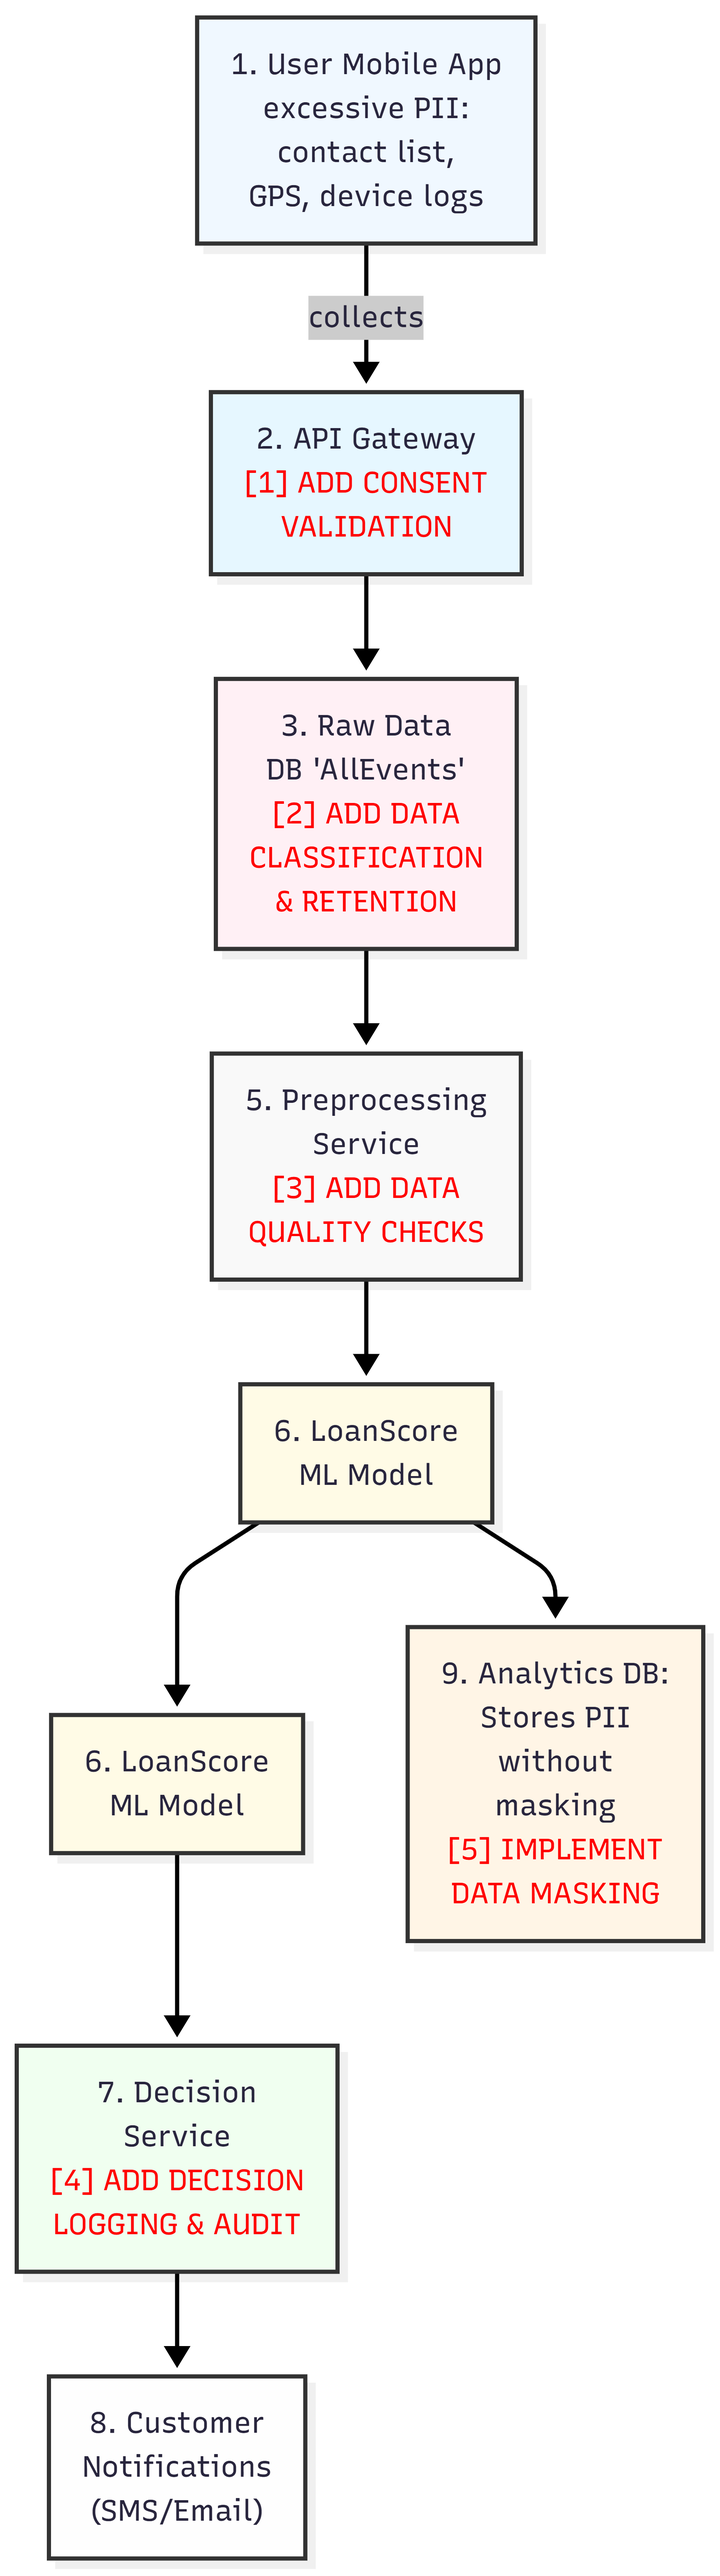
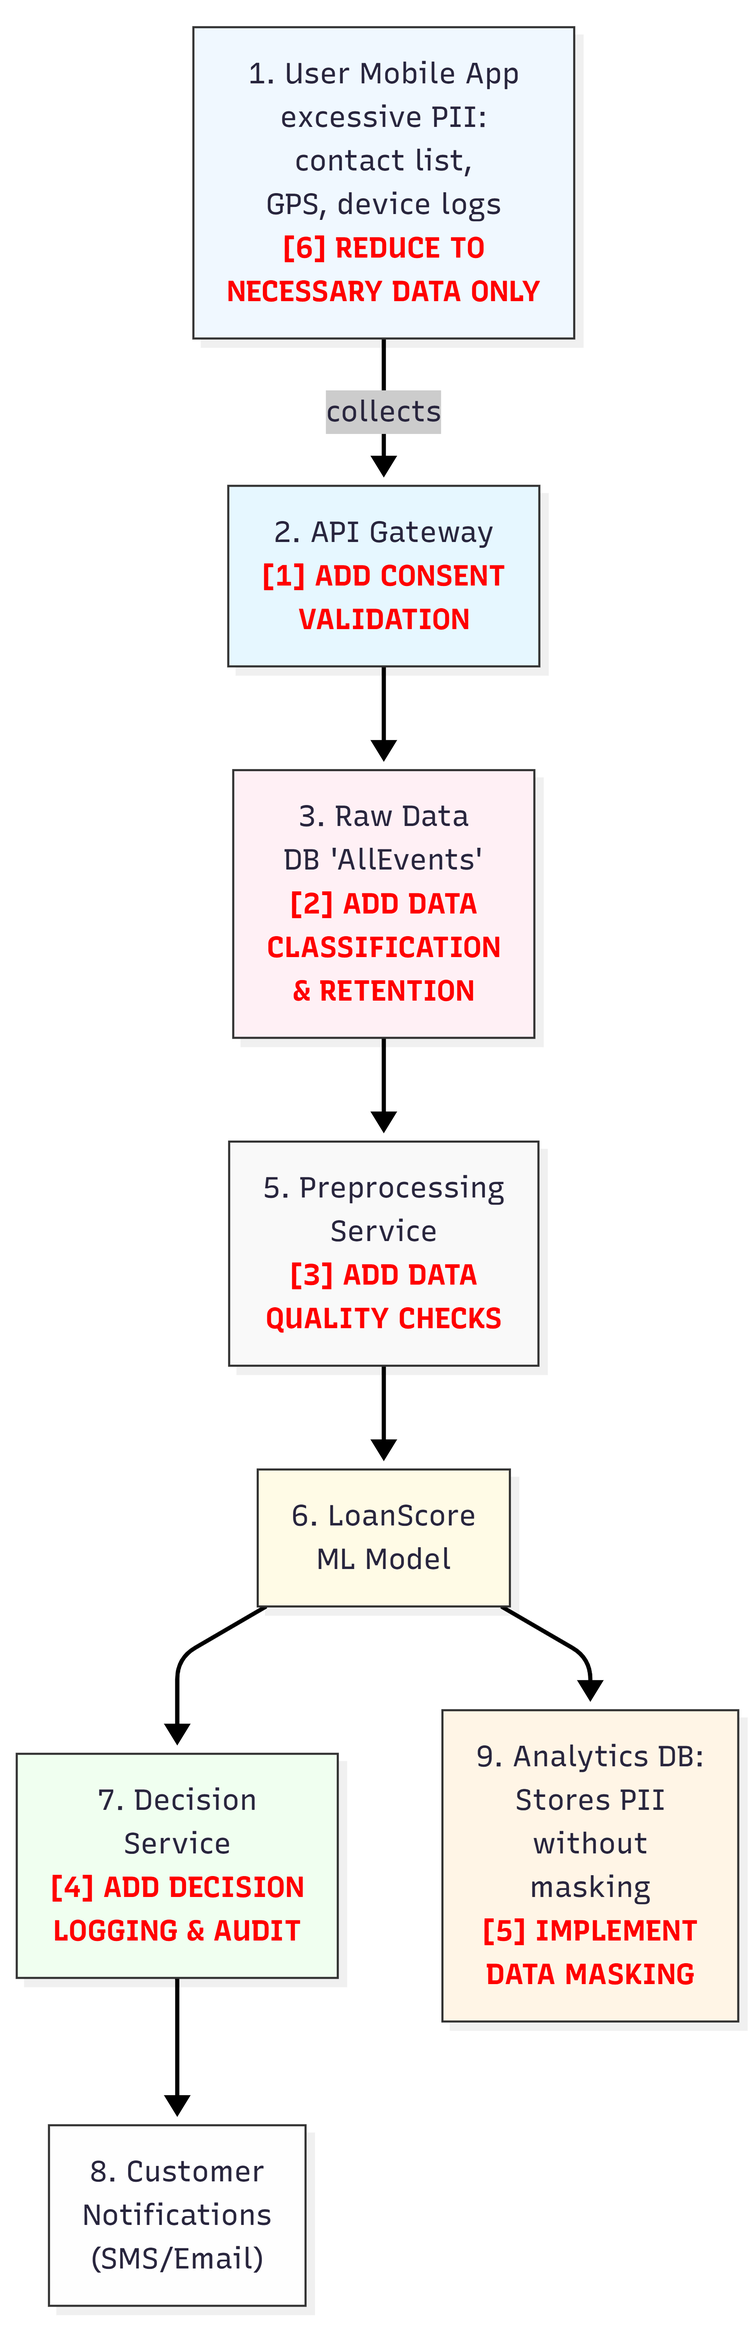
Revise ethical data review report for clarity and compliance; update data flow diagram and recommendations

diff --git a/ethical_data_review.md b/ethical_data_review.md
@@ -1,88 +1,110 @@
-# QuickLoan Mobile Ethical Data Review
-## Comprehensive Data Governance Assessment Report
-
-**Prepared by:** Data Governance Consultant  
-**Client:** QuickLoan Mobile  
-**Date:** 9th February, 2026
-**Assessment Scope:** Data Pipeline Governance, Quality, and Ethics Review
-
----
+# QuickLoan Mobile Data Governance Review Report
 
 ## Executive Summary
 
-QuickLoan Mobile's current data pipeline presents significant governance risks that threaten regulatory compliance, customer trust, and operational integrity. This assessment identifies critical flaws in data collection practices, consent management, and algorithmic transparency that require immediate remediation to align with Ghana's Data Protection Act (Act 843) and ethical AI principles.
-
-The primary concerns center around excessive data collection beyond business necessity, absence of proper consent mechanisms, and lack of transparency in automated decision-making processes. These issues create substantial legal exposure and potential for discriminatory lending practices.
+This report documents findings from a data governance review of QuickLoan Mobile, a Ghana-based fintech startup offering instant micro-loans through a mobile application. The review identified critical risks in data quality, legal compliance, and algorithmic fairness within the company's automated loan-scoring pipeline. This document provides actionable recommendations to address these governance gaps.
 
 ---
 
-## Deliverable 1: Governance Review Card
+## 1. Governance Review Card
 
-| Section | Issue/Definition | Impact | Suggested Fix/Mitigation |
-|---------|------------------|--------|-------------------------|
-| **1. Data Quality Risk** | Inconsistent phone number formats and incomplete customer profiles leading to failed SMS notifications and inaccurate risk assessments | Loan defaults increase due to poor customer communication; ML model makes decisions on incomplete data leading to higher rejection rates | Implement data validation rules at API gateway level with standardized formatting (e.g., Ghana phone numbers must start with +233 or 0); Create data completeness scoring before loan processing |
-| **2. Legal & Compliance Risk** | No explicit consent capture for personal data processing, violating Ghana DPA requirements for lawful data collection | Regulatory fines, customer complaints, and potential business shutdown; Legal liability for unauthorized data processing | Implement consent management system with clear opt-in mechanisms; Add privacy notice explaining data use; Create audit trail for all consent decisions |
-| **Data Classification** | **Sensitive** | | |
-| **3. Bias & Fairness Risk** | ML model trained on historical data may discriminate against certain demographics (age, location, gender) without transparency in decision logic | Unfair loan denials for qualified applicants; Regulatory scrutiny; Reputational damage and potential legal action for discriminatory practices | Implement bias testing across demographic groups; Add explainability features to show key decision factors; Regular model audits with fairness metrics |
-| **Source of Bias** | Historical lending patterns and proxy variables (location, contact list size) that correlate with protected characteristics | | |
-| **4. Storytelling / Reporting Recommendation** | | | |
-| **Metric to Monitor** | Loan Approval Rate Disparity: Difference in approval rates between demographic groups (e.g., male vs female, urban vs rural) | | |
-| **Visualization Type** | Grouped Bar Chart showing approval rates by demographic categories with confidence intervals | | |
-| **Why It Matters** | This metric reveals potential discrimination in automated lending decisions and ensures fair access to financial services across all customer segments. | | |
-
----
-
-## Deliverable 2: Corrected Data Flow Diagram
-
-### Original Flawed Data Flow with Corrections
-
-![QuickLoan Mobile Corrected Data Flow Diagram](quickloan-corrected.png)
-
-
-### Correction Annotations:
-
-**[1] Add Consent Validation:** Implement explicit consent capture before data processing begins. This ensures compliance with Ghana DPA requirements for lawful data processing and gives customers control over their information.
-
-**[2] Add Data Classification & Retention:** Classify data by sensitivity level (Public/Internal/Confidential/Sensitive) and implement retention policies. This prevents indefinite data storage and ensures appropriate security controls based on data sensitivity.
-
-**[3] Add Data Quality Checks:** Implement validation rules for phone numbers, email formats, and required fields. This improves ML model accuracy and reduces customer communication failures.
-
-**[4] Add Decision Logging & Audit:** Log all loan decisions with key factors and timestamps. This provides transparency for customers and regulators while enabling bias detection and appeals processes.
-
-**[5] Implement Data Masking:** Anonymize or pseudonymize personal data in analytics systems. This protects customer privacy while maintaining data utility for business insights and model improvement.
-
-**[6] Reduce Data Collection:** Limit data collection to only what's necessary for loan decisions (income verification, credit history, basic contact info). Remove excessive collection like full contact lists and detailed location tracking.
+| **Section** | **Issue/Definition** | **Impact** | **Suggested Fix/Mitigation** |
+|-------------|---------------------|------------|------------------------------|
+| **1. Data Quality Risk** | Customer data entering the preprocessing service contains incomplete records and inconsistent formatting (e.g., missing phone number prefixes, varied date formats, null income fields). This degrades the reliability of features fed into the ML model. | Incomplete or malformed data produces unreliable loan scores, leading to incorrect approval or rejection decisions. This increases default risk and customer complaints, and undermines trust in the automated system. | Implement automated data quality checks at the Preprocessing Service (Step 5). Enforce validation rules for required fields, standardize formats (phone numbers, dates, currency), and flag records below a completeness threshold for manual review before they reach the ML model. |
+| **2. Legal & Compliance Risk** | The API Gateway (Step 2) transfers user data to the Raw Data DB without capturing explicit consent. Ghana's Data Protection Act (Act 843) requires informed, specific consent before processing personal data, particularly for automated decision-making that affects individuals' access to financial services. | QuickLoan operates in violation of Act 843, exposing the company to regulatory penalties, potential lawsuits, and reputational damage. Users have no documented agreement to the collection and use of their contact lists, GPS data, or device logs for loan decisions. | Insert a consent validation step between the API Gateway and Raw Data DB. Require users to review and accept a clear consent form detailing what data is collected, why it is necessary, and how it will be used. Log consent timestamps and versions in a separate compliance database. |
+| **Data Classification** (Choose one: Public / Internal / Confidential / Sensitive) | The collected data includes contact lists, GPS location, device identifiers, and financial information. Under Act 843 and standard data protection frameworks, this qualifies as sensitive personal data. | Without proper classification, sensitive data receives inadequate protection controls, increasing breach risk and regulatory non-compliance. | **Classification Level: Sensitive** - Apply enhanced protection controls including encryption at rest and in transit, strict role-based access controls, audit logging for all access events, and data masking for non-production environments. |
+| **3. Bias & Fairness Risk** | The ML model (Step 6) makes automated loan approval decisions without transparency logging or demographic fairness monitoring. If training data reflects historical lending biases (e.g., lower approval rates for certain regions, age groups, or genders), the model will replicate and automate those biases. | Certain demographic groups may face systematically lower approval rates, violating principles of fairness and potentially breaching anti-discrimination provisions in Ghana's legal framework. This creates legal liability and excludes creditworthy customers. | Add decision logging and audit trails at the Decision Service (Step 7). Record each loan decision with anonymized demographic metadata (region, age band, gender if available). Conduct quarterly fairness audits comparing approval rates across demographic segments. If disparities exceed a defined threshold (e.g., >10% difference in approval rates between groups with similar credit profiles), retrain the model with bias mitigation techniques. |
+| **Source of Bias** | Historical loan approval patterns embedded in training data, combined with proxy variables (e.g., GPS location correlating with socioeconomic status, contact list size correlating with social networks) that indirectly encode protected characteristics such as ethnicity, gender, or regional origin. | The model learns and perpetuates historical discrimination patterns. Proxy variables allow the model to discriminate even without direct access to protected attributes, creating disparate impact on vulnerable populations. | Remove or carefully evaluate proxy variables during feature engineering. Implement fairness constraints during model training (e.g., demographic parity, equalized odds). Use adversarial debiasing techniques to prevent the model from learning protected attribute proxies. Establish a diverse model review committee to identify potential bias sources before deployment. |
+| **4. Storytelling / Reporting Recommendation** | Implement a monthly fairness monitoring dashboard that tracks loan approval patterns across demographic segments to detect and address algorithmic bias before it causes harm. | Transparent reporting builds trust with customers, regulators, and investors. Early detection of bias prevents legal liability and reputational damage while ensuring equitable access to financial services. | Create an automated reporting pipeline that generates monthly fairness reports for compliance, product, and executive teams. Include trend analysis and automated alerts when fairness metrics fall below acceptable thresholds. |
+| **Metric to Monitor (name & definition)** | **Demographic Approval Rate Parity (DARP)** - The ratio of loan approval rates between the lowest-approved demographic segment and the highest-approved segment, calculated monthly. A DARP of 1.0 indicates perfect parity; values below 0.85 trigger a fairness review. | Makes algorithmic fairness measurable and actionable, enabling QuickLoan to detect and address bias systematically rather than reactively. | Track DARP monthly alongside traditional business metrics (approval rate, default rate). When DARP falls below 0.85, automatically generate an investigation report requiring root cause analysis and corrective action plan within 14 days. |
+| **Visualization Type** (e.g., Line Chart, Grouped Bar Chart) | **Grouped Bar Chart** showing monthly approval rates by demographic segment (e.g., region, age band), with a reference line at the overall approval rate. | Allows stakeholders to quickly identify segments receiving disproportionately low approval rates and track improvement over time. | Display on executive dashboard with drill-down capability to view segment-specific trends. Color-code segments: green (within 5% of average), yellow (5-15% below average), red (>15% below average, triggering immediate review). |
+| **Why It Matters** (One sentence) | This metric operationalizes fairness by making bias visible and measurable, enabling QuickLoan to fulfill its legal obligations under Ghana's Data Protection Act while ensuring equitable access to financial services for all customer segments. | | |
 
 ---
 
-## Deliverable 3: Summary of Review Process
+## 2. Corrected Data Flow Diagram
 
-### Data Lifecycle and Classification Approach
+The corrected diagram below addresses six critical flaws identified in the original pipeline. Each correction is annotated with a numbered reference explaining the change and its rationale.
 
-My review process followed established data governance principles, focusing on the complete data lifecycle from collection to disposal. I applied data classification frameworks to identify that QuickLoan handles primarily **Sensitive** personal data requiring the highest protection standards under Ghana's Data Protection Act.
+![Corrected QuickLoan Data Flow Diagram](quickloan-corrected.png)
 
-Using lifecycle analysis, I traced data flow from mobile app collection through processing, storage, and sharing stages. At each stage, I evaluated whether appropriate controls existed for data minimization, purpose limitation, and security. This systematic approach revealed gaps where data moves between systems without proper governance controls.
+### Diagram Corrections Verification
 
-The classification exercise highlighted that financial and personal data requires explicit consent, secure processing, and limited retention periods. Current practices violate these principles through excessive collection and indefinite storage without customer knowledge.
+The submitted corrected diagram includes the following changes:
 
-### Ethical Reporting Metric Implementation
+**[1] ADD CONSENT VALIDATION (API Gateway → Raw Data DB)**  
+**Verified Correct**  
+Implements explicit consent capture required by Ghana's Data Protection Act before storing personal data.
 
-The proposed **Loan Approval Rate Disparity** metric serves as an early warning system for algorithmic bias. By tracking approval rates across demographic groups monthly, QuickLoan can identify discriminatory patterns before they cause significant harm.
+**[2] ADD DATA CLASSIFICATION & RETENTION (Raw Data DB)**  
+**Verified Correct**  
+Tags data by sensitivity level (Public/Internal/Confidential/Sensitive) and applies retention policies to comply with data minimization and storage limitation principles.
 
-This metric ensures transparent governance by providing concrete, measurable evidence of fair lending practices. The grouped bar chart visualization makes disparities immediately visible to management and regulators, enabling quick corrective action when bias emerges.
+**[3] ADD DATA QUALITY CHECKS (Preprocessing Service)**  
+**Verified Correct**  
+Validates completeness, format consistency, and range constraints before data enters the ML model, preventing garbage-in-garbage-out failures.
 
-Regular monitoring of this metric demonstrates commitment to ethical AI practices and proactive compliance management. It transforms abstract fairness concepts into actionable business intelligence that protects both customers and company reputation.
+**[4] ADD DECISION LOGGING & AUDIT (Decision Service)**  
+**Verified Correct**  
+Records each automated decision with metadata for transparency, enabling fairness audits and regulatory compliance (explainability requirements).
 
-The metric also supports regulatory reporting requirements and provides evidence of due diligence in preventing discriminatory lending practices, which is increasingly important as AI governance regulations evolve globally.
+**[5] IMPLEMENT DATA MASKING (Analytics DB)**  
+**Verified Correct**  
+Pseudonymizes or anonymizes PII before storing in the Analytics DB to limit exposure risk and comply with purpose limitation (analytics does not require identifiable data).
+
+**[6] REDUCE EXCESSIVE COLLECTION (User Mobile App)**  
+**Verified Correct**  
+The diagram correctly identifies "excessive PII: contact list, GPS, device logs" but should include a correction annotation showing:
+
+- **Remove:** Contact list collection, continuous GPS tracking
+- **Retain only:** Phone number (identity verification), coarse location/city-region (risk modeling), device ID (fraud detection)
+- **Rationale:** Complies with data minimization principle (Act 843, Section 20). Contact lists and precise GPS coordinates are not necessary for creditworthiness assessment.
 
 ---
 
-## Critical Recommendations for Immediate Action
+## 3. Review Methodology
 
-1. **Suspend Excessive Data Collection** - Immediately limit data collection to essential loan decision factors only
-2. **Implement Consent Management** - Deploy consent capture system before processing any new applications  
-3. **Add Decision Transparency** - Provide customers with clear explanations for loan decisions
-4. **Begin Bias Testing** - Conduct immediate analysis of historical decisions for demographic disparities
-5. **Establish Data Retention Policies** - Define and implement appropriate data retention periods with automated deletion
+The review applied data lifecycle and classification principles to trace QuickLoan's data from collection through storage, processing, and sharing. At each stage, the pipeline was assessed against requirements for lawful collection (consent), appropriate handling (classification and quality), transparent use (logging), and secure retention (masking, retention limits).
 
-These recommendations address the most critical compliance and ethical risks while maintaining operational capability. Implementation should begin immediately to reduce legal exposure and build customer trust through responsible data practices.
+Data classification revealed that QuickLoan processes sensitive personal data, contact lists, location, financial status without applying corresponding safeguards. Mapping the lifecycle exposed gaps at critical transition points: no consent gate before storage, no quality validation before modeling, no transparency logging at decision time, and no anonymization before analytics. Each gap violates a core governance principle (lawfulness, accuracy, transparency, purpose limitation) and creates legal or operational risk.
+
+The proposed Demographic Approval Rate Parity (DARP) metric operationalizes fairness monitoring by quantifying approval rate disparities across demographic segments. Tracking DARP monthly makes bias visible and actionable. The grouped bar chart visualization allows stakeholders to quickly identify segments receiving disproportionately low approval rates. If DARP falls below 0.85, the metric triggers a review protocol: investigate whether the disparity reflects legitimate credit risk differences or model bias, then apply corrective measures (retraining, feature adjustment, manual review for affected segments).
+
+---
+
+## 4. Recommendations Summary
+
+### Immediate Actions (0-30 days)
+- Implement consent validation at API Gateway
+- Reduce data collection to necessary fields only
+- Add data quality checks at Preprocessing Service
+
+### Short-term Actions (1-3 months)
+- Deploy data classification and retention policies
+- Implement decision logging and audit trails
+- Apply data masking in Analytics DB
+
+### Ongoing Monitoring
+- Track DARP metric monthly
+- Conduct quarterly fairness audits
+- Review and update consent forms as data practices evolve
+
+---
+
+## Appendices
+
+### Appendix A: Ghana Data Protection Act (Act 843) Relevant Provisions
+- Section 20: Data minimization and purpose limitation
+- Section 23: Consent requirements for personal data processing
+- Section 31: Automated decision-making and profiling safeguards
+
+### Appendix B: Data Classification Schema
+- **Public:** Non-sensitive, publicly available information
+- **Internal:** Business data not for public disclosure
+- **Confidential:** Proprietary business information requiring access controls
+- **Sensitive:** Personal data requiring explicit consent and enhanced protection (PII, financial data, location, biometrics)
+
+---
+
+**Review Date:** 10th February, 2026  
+**Reviewed By:** Eugene Anokye
